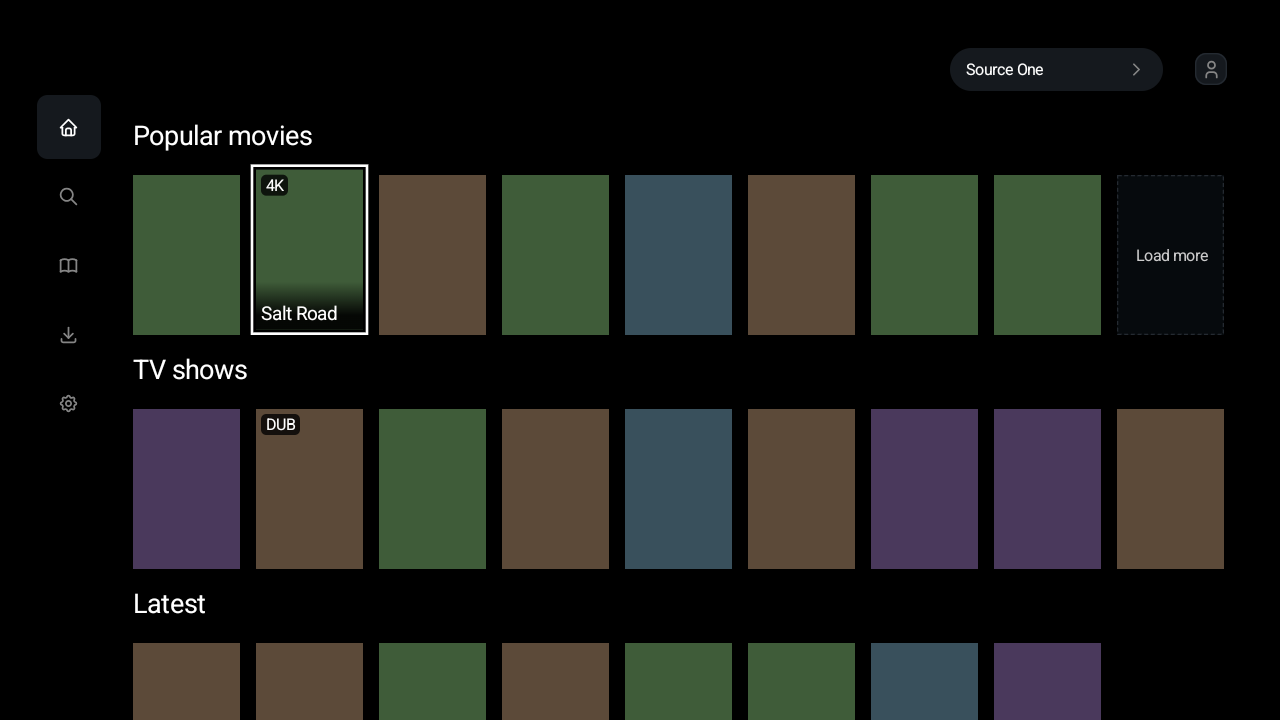
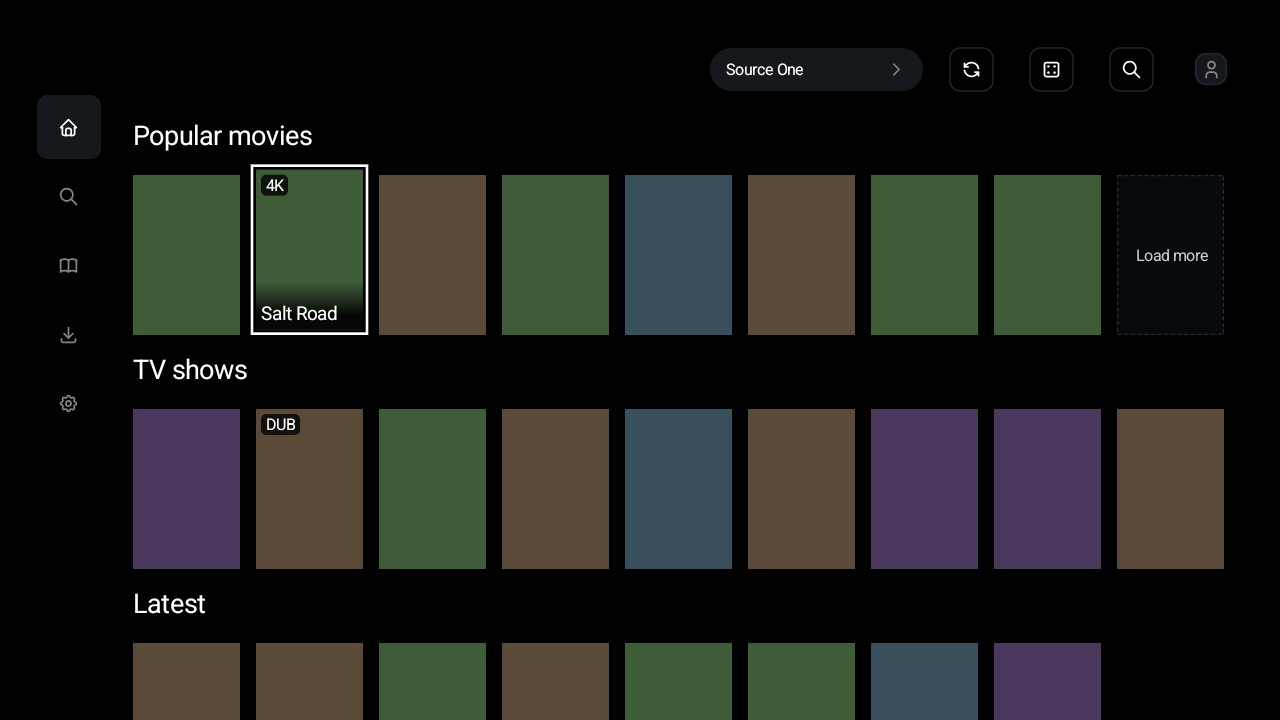
KMP-44: None tops the panel in its focus test; the cells' labels are drawn, not text nodes

Changed region(s): [[0.5312, 0.0611, 0.9062, 0.1528]]

diff --git a/feature/home/src/androidDeviceTest/kotlin/com/lagradost/cloudstream4/feature/home/tv/HomeScreenTvDeviceTest.kt b/feature/home/src/androidDeviceTest/kotlin/com/lagradost/cloudstream4/feature/home/tv/HomeScreenTvDeviceTest.kt
@@ -631,7 +631,10 @@ class HomeScreenTvDeviceTest {
         awaitFocus(ONE.name)
 
         assertEquals(ONE.name, dpad.press(Dpad.Left))
-        assertEquals(ONE.name, dpad.press(Dpad.Up))
+        // None sits above the sources (3h), and is the panel's top.
+        assertEquals(NONE, dpad.press(Dpad.Up))
+        assertEquals(NONE, dpad.press(Dpad.Up))
+        assertEquals(ONE.name, dpad.press(Dpad.Down))
         assertEquals(TWO.name, dpad.press(Dpad.Down))
         assertEquals(TWO.name, dpad.press(Dpad.Down))
         device.pressBack()
@@ -1227,12 +1230,11 @@ class HomeScreenTvDeviceTest {
         showScreen()
         awaitFocus("A 0")
         pressUntil(Dpad.Up, SOURCE_ONE)
+        // Icon-only, named by its description; the label drawn under it on focus is in the screenshot (3j).
         assertEquals(RELOAD, dpad.press(Dpad.Right))
-        // Icon-only, so the label shows under the cell while focused, and is its description.
-        rule.onNodeWithText(RELOAD).assertIsDisplayed()
         rule.onNode(isFocused()).assertWidthIsEqualTo(CloudStreamDimens.IconTargetCell)
         assertEquals(RANDOM, dpad.press(Dpad.Right))
-        rule.onAllNodesWithText(RELOAD).fetchSemanticsNodes().let { assertTrue("a label only on focus", it.isEmpty()) }
+        assertEquals(SEARCH, dpad.press(Dpad.Right))
     }
 
     @Test
